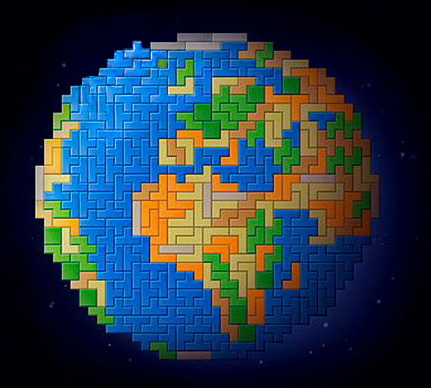
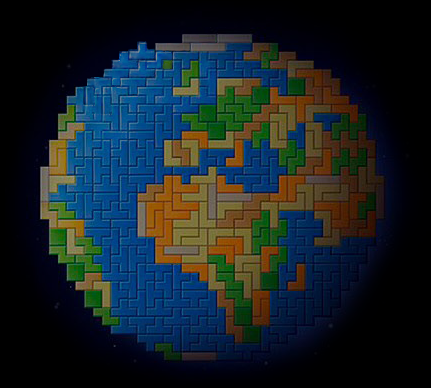
modif image teras

diff --git a/net/epopy/epopy/games/tetras/menus/TetrasGame.java b/net/epopy/epopy/games/tetras/menus/TetrasGame.java
@@ -132,7 +132,7 @@ public class TetrasGame extends AbstractGameMenu {
 	@Override
 	public void render() {
 
-		renderTexture(Textures.TETRAS_BG, defaultWidth / 2 - 215, defaultHeight / 2 - 194, 400, 388, rotation);
+		renderTexture(Textures.TETRAS_BG, defaultWidth / 2 - 215, defaultHeight / 2 - 194, 431, 388, rotation);
 		
 		if (pauseScreen) {
 			renderEchap(true);
